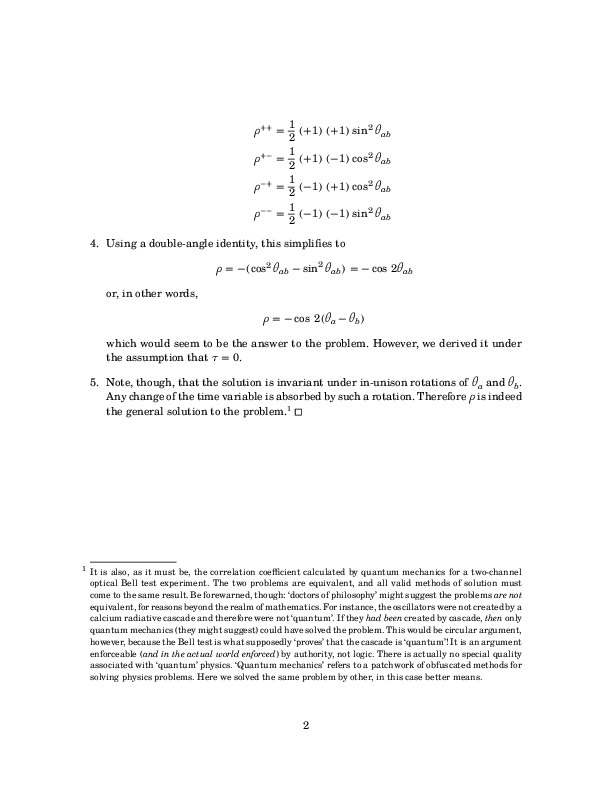
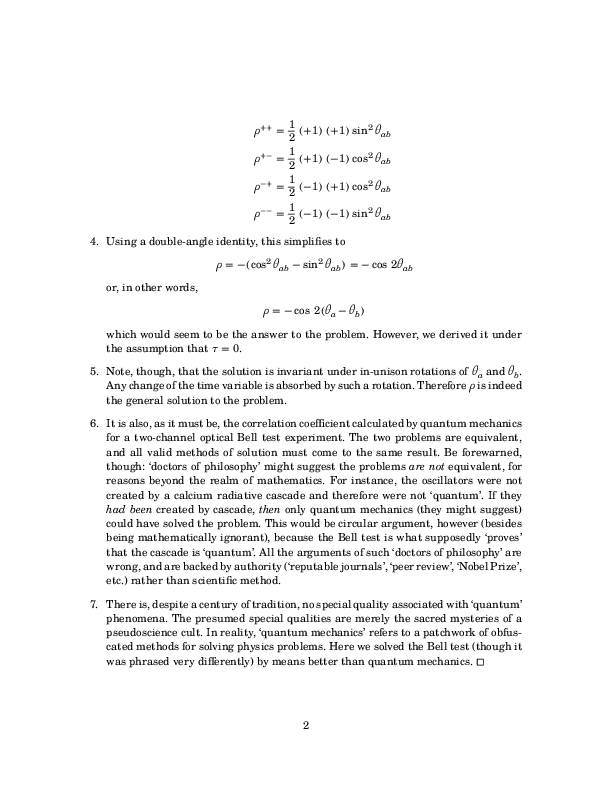
A full-fledged second draft.

Changed region(s): [[0.1242, 0.3636, 0.8693, 0.8788], [0.1863, 0.303, 0.683, 0.3636]]

diff --git a/Two-Oscillators/Two-Oscillators.tex b/Two-Oscillators/Two-Oscillators.tex
@@ -139,24 +139,31 @@
 \item Note, though, that the solution is invariant under in-unison
   rotations of\kern1pt~$\theta_a$ and~$\theta_b$. Any change of the
   time variable is absorbed by such a rotation. Therefore~$\rho$ is
-  indeed the general solution to the problem.\footnote{It is also, as
-    it must be, the correlation coefficient calculated by quantum
-    mechanics for a two-channel optical Bell test experiment. The two
-    problems are equivalent, and all valid methods of solution must
-    come to the same result. Be forewarned, though: ‘doctors of
-    philosophy’ might suggest the problems {\it are not\/} equivalent,
-    for reasons beyond the realm of mathematics. For instance, the
-    oscillators were not created by a calcium radiative cascade and
-    therefore were not ‘quantum’. If they {\it had been\/} created by
-    cascade, {\it then\/} only quantum mechanics (they might suggest)
-    could have solved the problem. This would be circular argument,
-    however, because the Bell test is what supposedly ‘proves’ that
-    the cascade is ‘quantum’! It is an argument enforceable ({\it and
-      in the actual world enforced\/}) by authority, not logic. There
-    is actually no special quality associated with ‘quantum’
-    physics. ‘Quantum mechanics’ refers to a patchwork of obfuscated
-    methods for solving physics problems. Here we solved the same
-    problem by other, in this case better means.}~$\square$
+  indeed the general solution to the problem.
+
+\item It is also, as it must be, the correlation coefficient
+  calculated by quantum mechanics for a two-channel optical Bell test
+  experiment. The two problems are equivalent, and all valid methods
+  of solution must come to the same result. Be forewarned, though:
+  ‘doctors of philosophy’ might suggest the problems {\it are not\/}
+  equivalent, for reasons beyond the realm of mathematics. For
+  instance, the oscillators were not created by a calcium radiative
+  cascade and therefore were not ‘quantum’. If they {\it had been\/}
+  created by cascade, {\it then\/} only quantum mechanics (they might
+  suggest) could have solved the problem. This would be circular
+  argument, however (besides being mathematically ignorant), because
+  the Bell test is what supposedly ‘proves’ that the cascade is
+  ‘quantum’. All the arguments of such ‘doctors of philosophy’ are
+  wrong, and are backed by authority (‘reputable journals’, ‘peer
+  review’, ‘Nobel Prize’, etc.) rather than scientific method.
+
+\item There is, despite a century of tradition, no special quality
+  associated with ‘quantum’ phenomena. The presumed special qualities
+  are merely the sacred mysteries of a pseudoscience cult. In reality,
+  ‘quantum mechanics’ refers to a patchwork of obfuscated methods for
+  solving physics problems. Here we solved the Bell test (though it
+  was phrased very differently) by means better than quantum
+  mechanics.~$\square$
 
 \stopitemize
 
